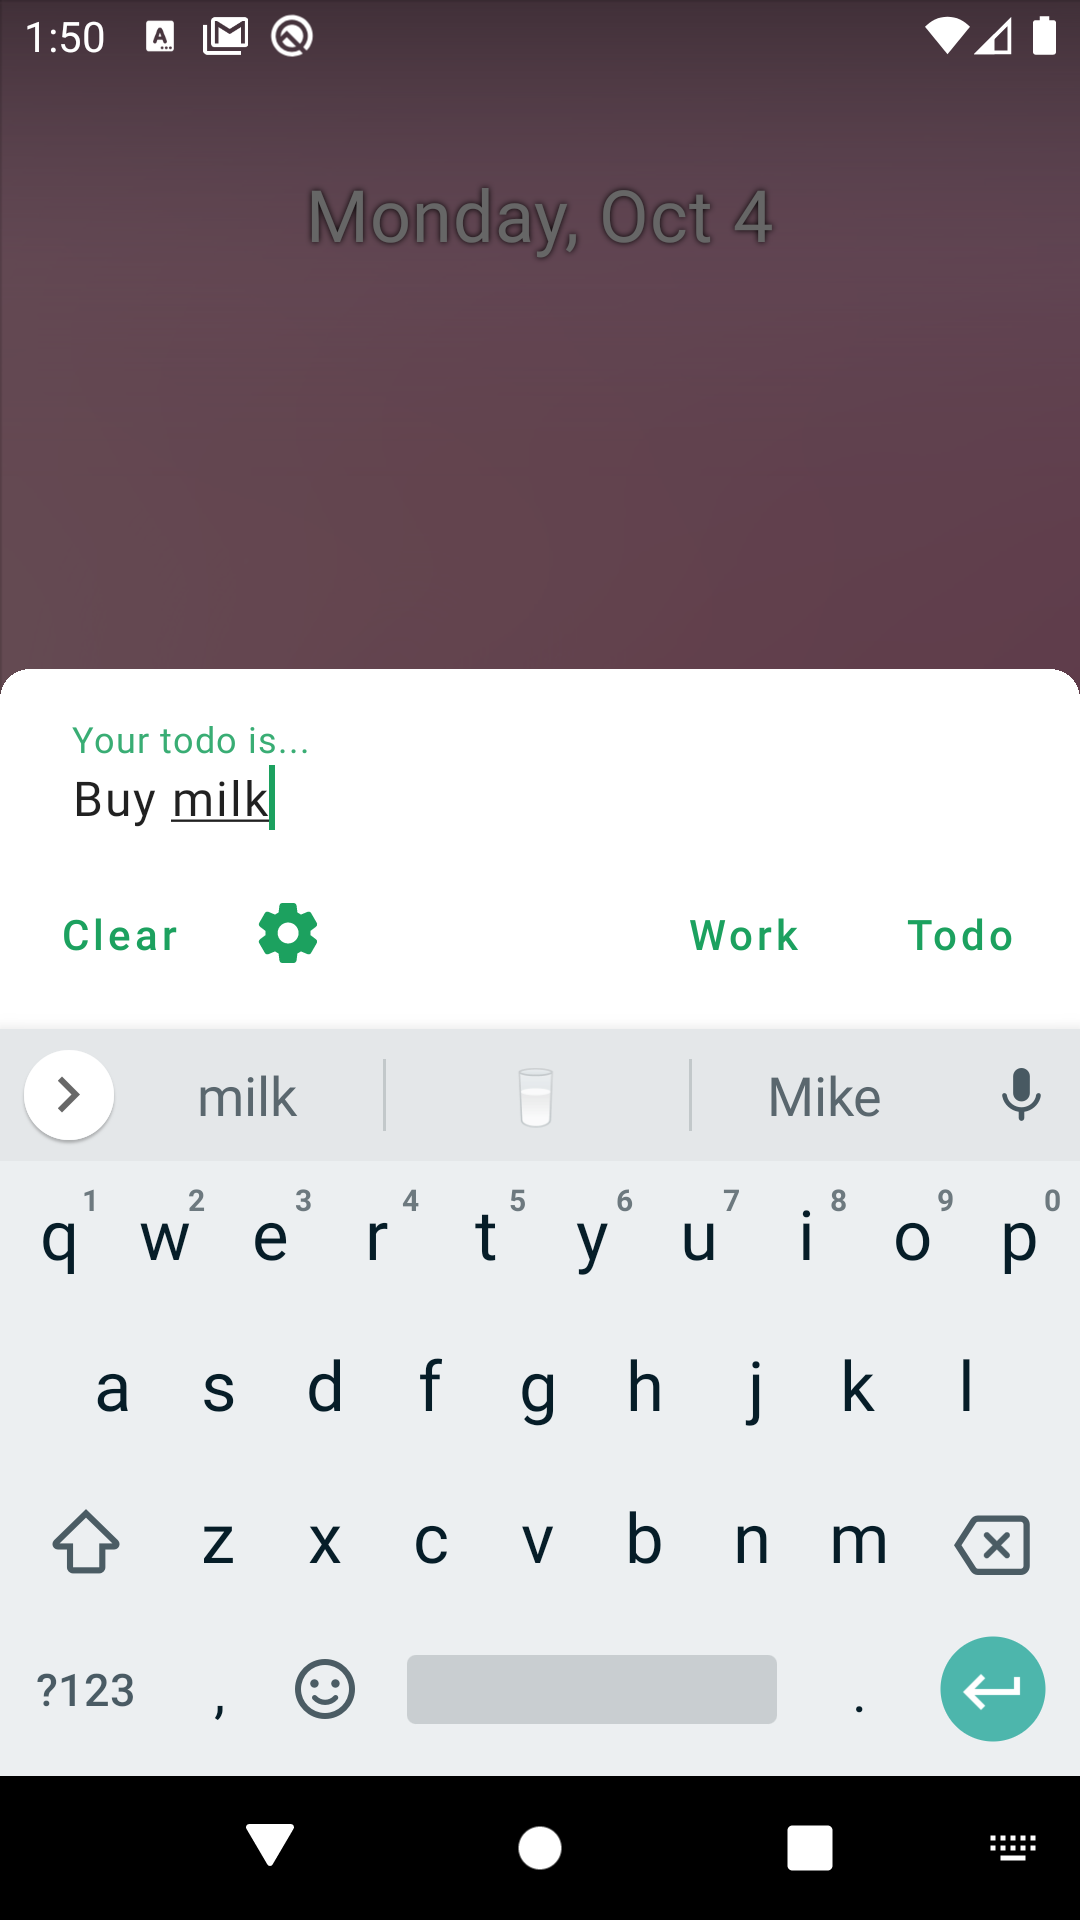
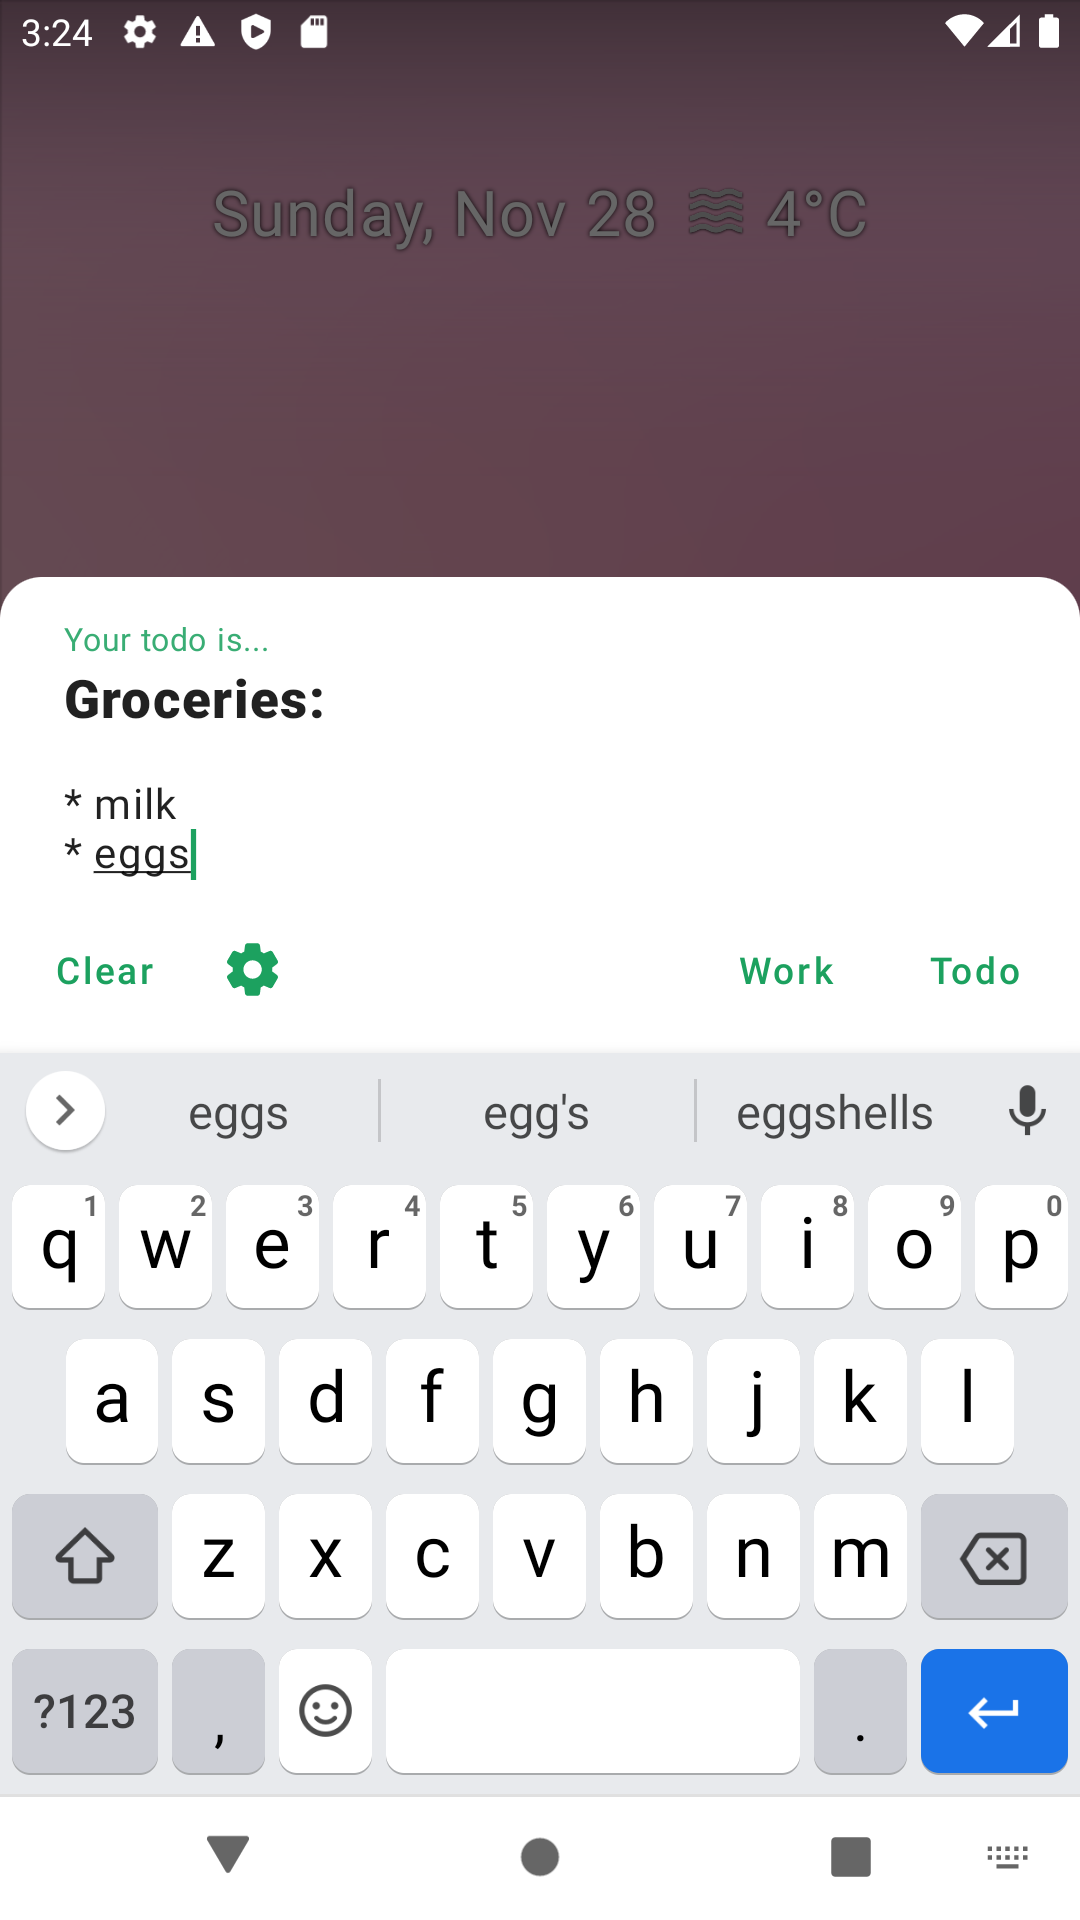
Update screenshots

diff --git a/README.md b/README.md
@@ -18,8 +18,6 @@ The app usages:
 
 # Screenshots
 
-// TODO update screenshots 
-
 <img src=".res/screenshot_main_dialog.png" width="380"> <img src=".res/screenshot_settings.png" width="380">
 
 # But why?
